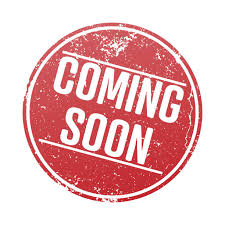
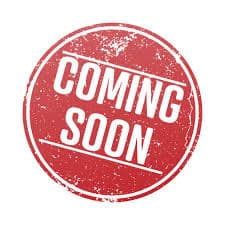
Replace PNG images with JPG counterparts in App component and update image paths

Changed region(s): [[0.0933, 0.0933, 0.9022, 0.9022]]

diff --git a/src/App.jsx b/src/App.jsx
@@ -10,7 +10,7 @@ import './App.css'
         "Clean and modern website for visa documents clearing service with responsive design.",
       tech: ["React.js", "Tailwind", "Responsive UI"],
       image:
-        "/image/1.png",
+        "/image/1.jpg",
       liveDemo:"https://najmatalarabdocsclearing.com"
 
     },
@@ -21,7 +21,7 @@ import './App.css'
         "Clean and modern dashboard frontend with reusable components.",
       tech: ["React.js", "Tailwind", "Responsive UI","Dashboard"],
       image:
-        "/image/Untitled.png",
+        "/image/Untitled.jpg",
       liveDemo:"https://be-my-courier.vercel.app/"
       },
       {
@@ -31,7 +31,7 @@ import './App.css'
         "A sleek, responsive web dashboard designed to help users manage tasks and data efficiently. Features Dark/Light mode toggle and a clean interface.",
       tech: ["Vue.js", "Tailwind", "Responsive UI"],
       image:
-        "/image/12.png",
+        "/image/12.jpg",
         liveDemo:"https://forge-board.vercel.app/"
       },
 
@@ -42,7 +42,7 @@ import './App.css'
         "Real-time weather forecast webapp built with react and tailwind css.  ",
       tech: ["React.js", "Tailwind", "Responsive UI",],
       image:
-        "/image/Untitled2.png",
+        "/image/Untitled2.jpg",
       liveDemo:"https://react-weather-web.vercel.app/"
       },
       {
@@ -52,7 +52,7 @@ import './App.css'
         "Clean and modern e comrence web.Focused on performance and shopping flow.",
       tech: ["Vue.js", "Tailwind", "Responsive UI"],
       image:
-        "/image/amazora-teal.vercel.app_(iPad Pro).png",
+        "/image/amazora-teal.vercel.app_(iPad Pro).jpg",
       liveDemo:"https://amazora-teal.vercel.app/"
       },
       {
